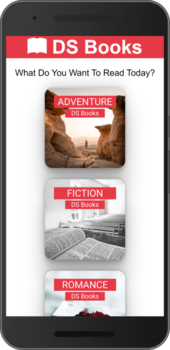
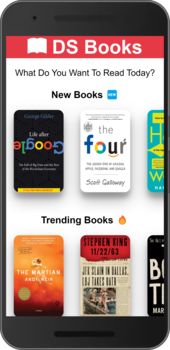
DS Books Version 0.5.1
Release Notes:

- Bug Fixes.
- Improved The App UI.
- New "Trending" Section.
- New "New Books" Section.
- Code Formatted.

diff --git a/Pages/About.html b/Pages/About.html
@@ -52,7 +52,7 @@
     <!-- Version -->
     <div class="About-Text">
       <h2 class="About-Subheading">Version</h2>
-      0.5.0
+      0.5.1
     </div>
     <!-- Follow Me -->
     <div class="About-Text">

diff --git a/README.md b/README.md
@@ -16,7 +16,7 @@ DS Books is a library where you can find a variety of books. Your l
 ![DS Books Thriller Category](/Images/Screenshots/SS-Thriller.png)
 ![DS Books The Book Thief](/Images/Screenshots/SS-The-Book-Thief.png)
 
-## Release Notes 0.5.0
+## Release Notes 0.5.1
 
 - Bug Fixes.
 - Improved The App UI.
